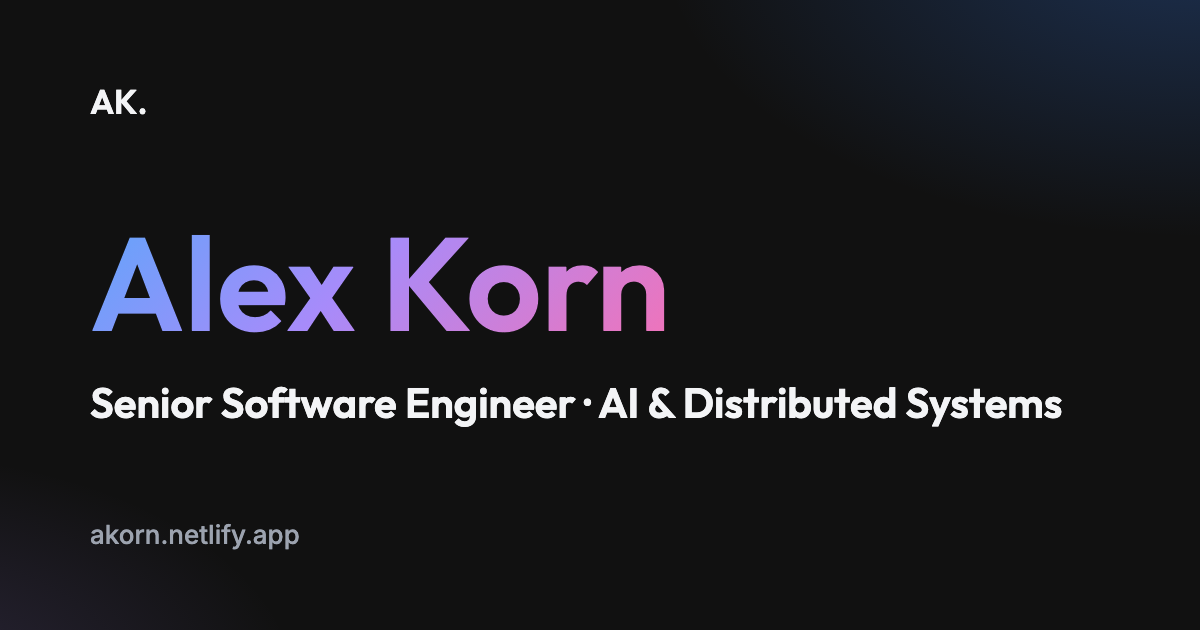
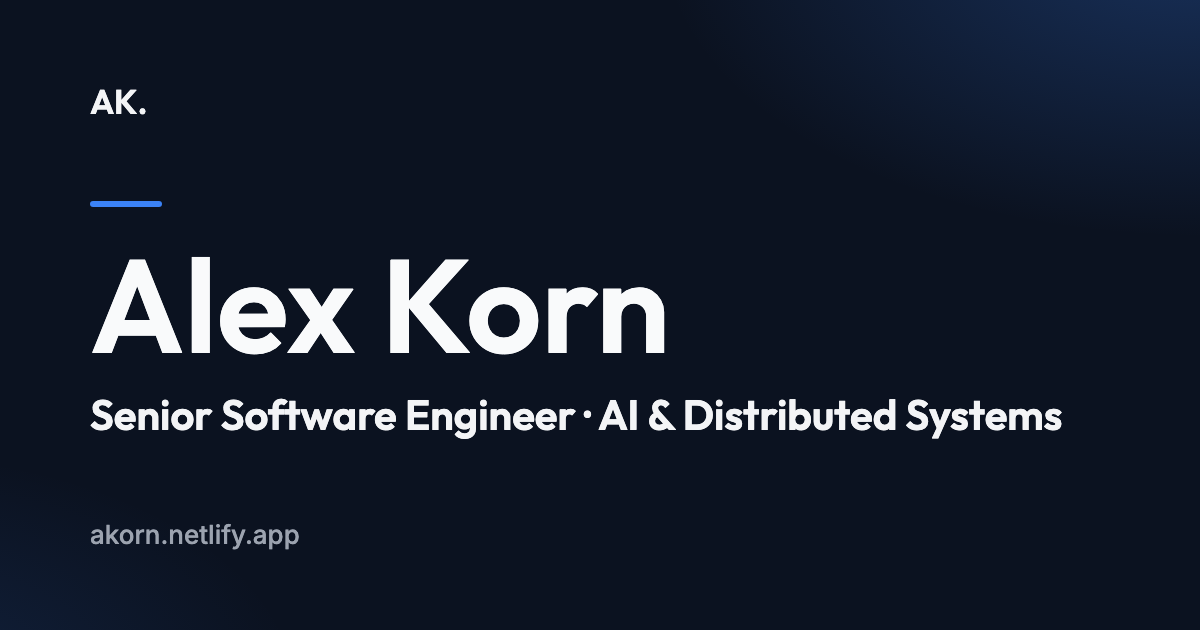
Calm the color scheme to a single blue accent
- Solid hero name instead of the blue-purple-pink gradient
- Slate dark background to match card surfaces
- Flat primary button, solid accent bars, grey timeline
- Regenerate the social preview image to match

Changed region(s): [[0.0617, 0.3619, 0.555, 0.573], [0.0617, 0.6032, 0.8942, 0.6937], [0.0617, 0.3016, 0.1542, 0.3317]]

diff --git a/src/styles/custom-styles.css b/src/styles/custom-styles.css
@@ -3,26 +3,16 @@
    Gradients and effects that Tailwind utilities don't cover
    =================================== */
 
-/* gradient heading */
+/* hero name */
 .main-heading {
   font-style: normal;
   font-weight: 600;
   line-height: 1.1;
-  /* Light mode: vibrant blue-to-purple gradient */
-  background: linear-gradient(135deg, #2563eb 0%, #7c3aed 50%, #db2777 100%);
-  -webkit-background-clip: text;
-  background-clip: text;
-  -webkit-text-fill-color: transparent;
-  /* Ensures proper wrapping on multi-line text */
-  -webkit-box-decoration-break: clone;
-  box-decoration-break: clone;
+  color: #111827;
 }
 
-/* Dark mode: brighter, more vivid gradient for contrast */
 [data-theme="dark"] .main-heading {
-  background: linear-gradient(135deg, #60a5fa 0%, #a78bfa 45%, #f472b6 100%);
-  -webkit-background-clip: text;
-  background-clip: text;
+  color: #f9fafb;
 }
 
 /* Focus styles for accessibility */
@@ -80,7 +70,7 @@ section {
 }
 
 [data-theme="dark"] .glass-card {
-  background: rgba(30, 30, 40, 0.7);
+  background: rgba(31, 41, 55, 0.6);
   border: 1px solid rgba(255, 255, 255, 0.1);
 }
 
@@ -101,38 +91,11 @@ section {
     radial-gradient(ellipse 800px 350px at -10% 60%, rgba(59, 130, 246, 0.1) 0%, transparent 45%);
 }
 
-/* CTA Button enhancements */
-.cta-primary {
-  position: relative;
-  overflow: hidden;
-  transition: all 0.3s ease;
-}
-
-.cta-primary::before {
-  content: '';
-  position: absolute;
-  top: 0;
-  left: -100%;
-  width: 100%;
-  height: 100%;
-  background: linear-gradient(90deg, transparent, rgba(255, 255, 255, 0.2), transparent);
-  transition: left 0.5s ease;
-}
-
-.cta-primary:hover::before {
-  left: 100%;
-}
-
-.cta-primary:hover {
-  transform: translateY(-2px);
-  box-shadow: 0 8px 20px rgba(59, 130, 246, 0.3);
-}
-
 /* Section title accent bar */
 .section-title-bar {
   width: 4px;
   height: 2rem;
-  background: linear-gradient(180deg, #3b82f6, #667eea);
+  background: #3b82f6;
   border-radius: 2px;
 }
 
@@ -140,7 +103,7 @@ section {
 .timeline-dot {
   width: 12px;
   height: 12px;
-  background: linear-gradient(135deg, #3b82f6, #667eea);
+  background: #3b82f6;
   border-radius: 50%;
   border: 3px solid white;
   box-shadow: 0 0 0 3px rgba(59, 130, 246, 0.2);
@@ -149,7 +112,7 @@ section {
 }
 
 [data-theme="dark"] .timeline-dot {
-  border-color: #1f2937;
+  border-color: #0b1220;
 }
 
 /* Nav link underline animation */
@@ -164,7 +127,7 @@ section {
   left: 50%;
   width: 0;
   height: 2px;
-  background: linear-gradient(90deg, #3b82f6, #667eea);
+  background: #3b82f6;
   transition: all 0.3s ease;
   transform: translateX(-50%);
 }

diff --git a/src/styles/style.css b/src/styles/style.css
@@ -8,7 +8,7 @@
 @custom-variant dark (&:where([data-theme="dark"], [data-theme="dark"] *));
 
 @theme {
-  --color-dark: #111111;
+  --color-dark: #0b1220;
   --color-light: #ffffff;
   --color-dark-gray: #374151;
   --color-light-gray: #f3f4f6;
